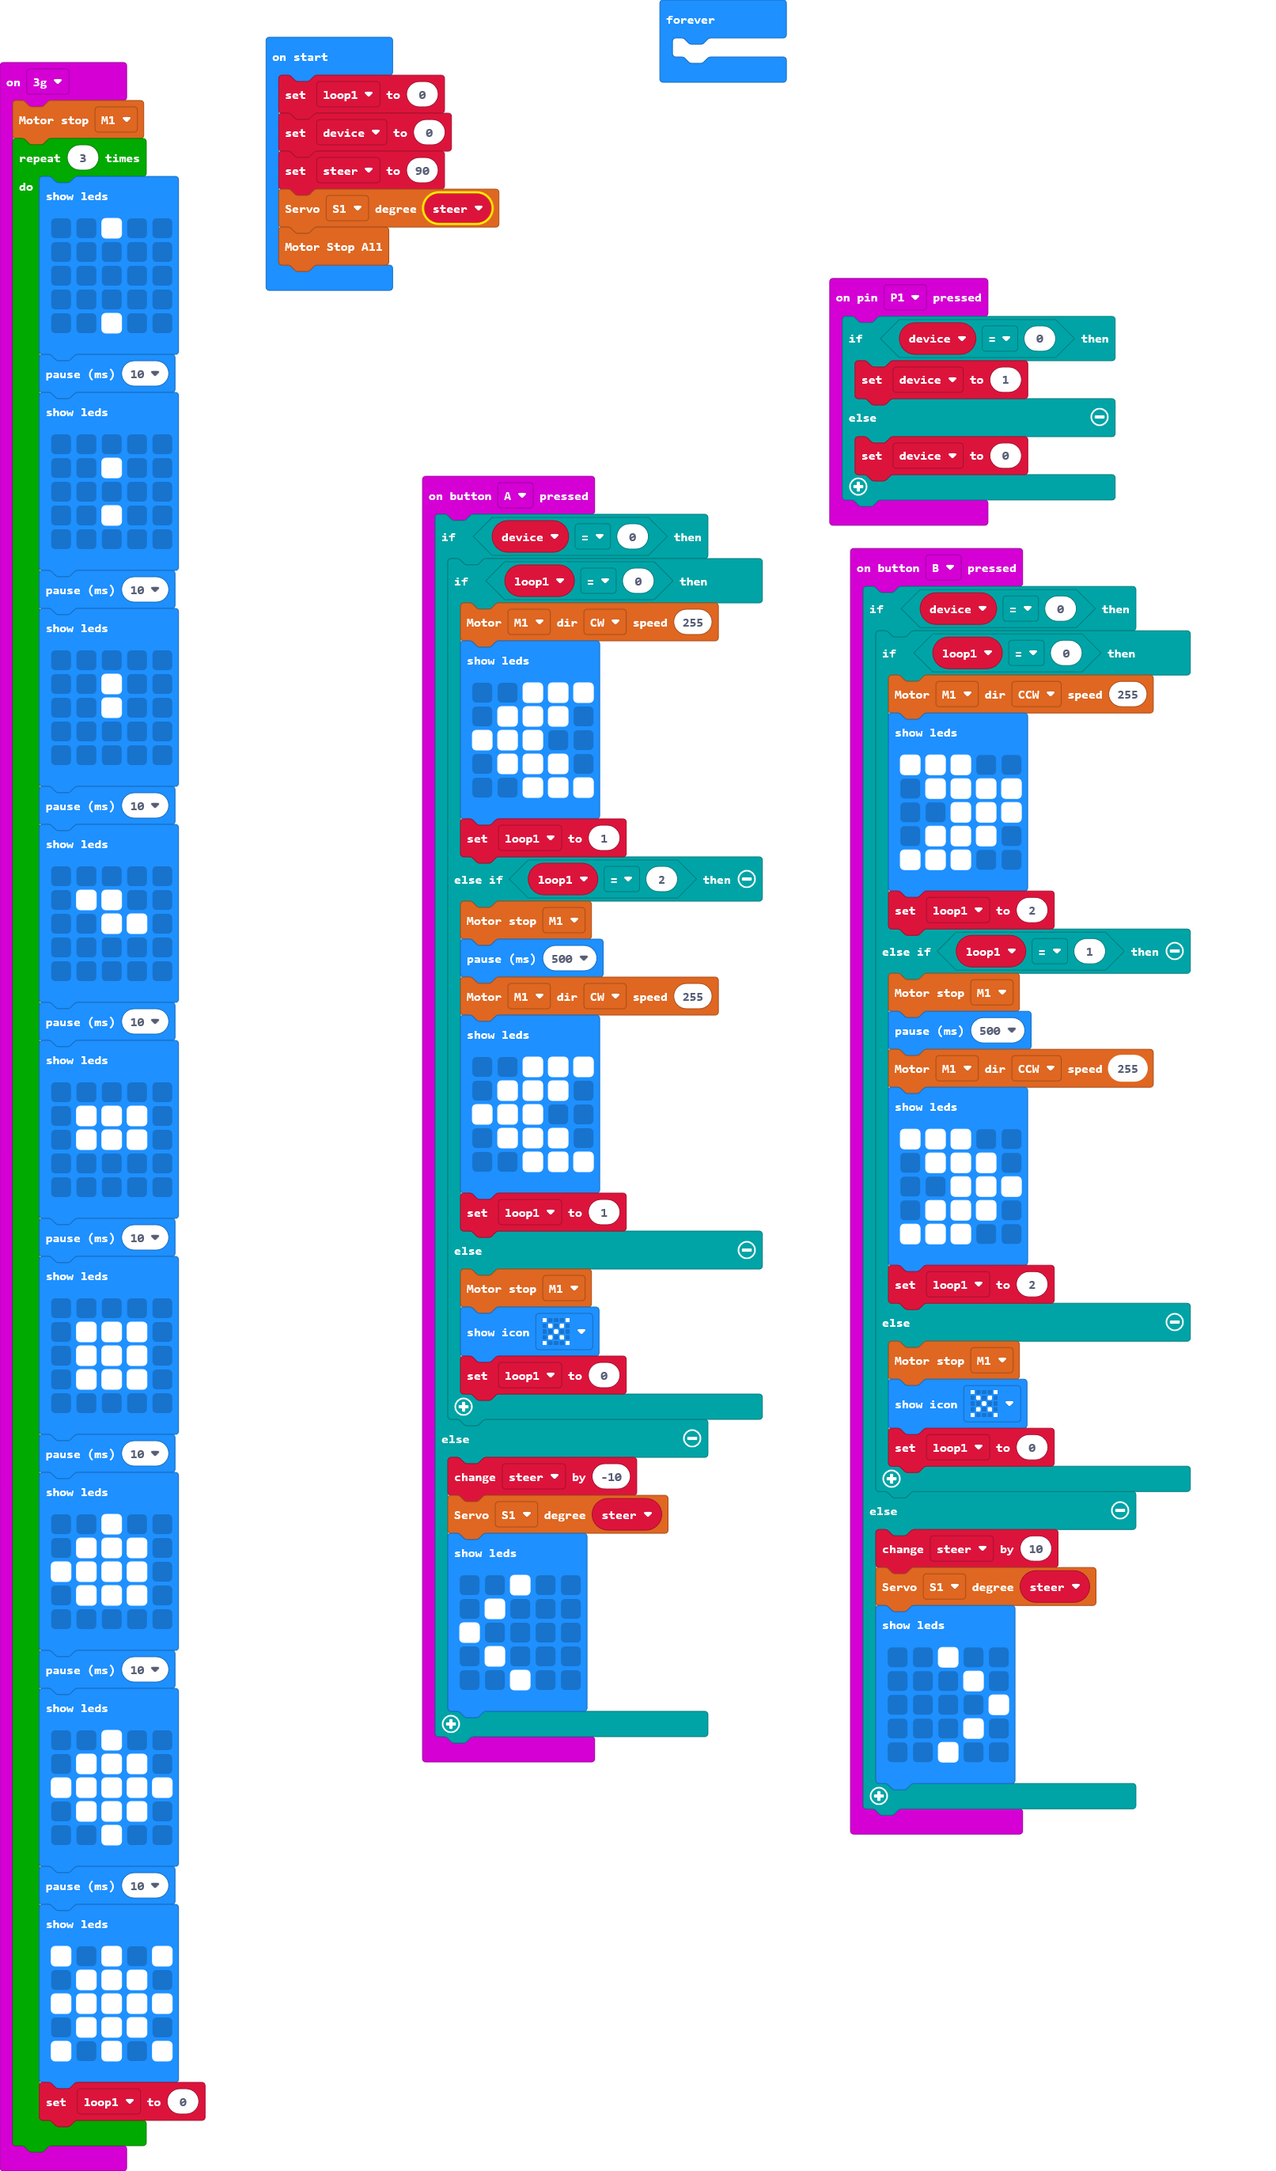
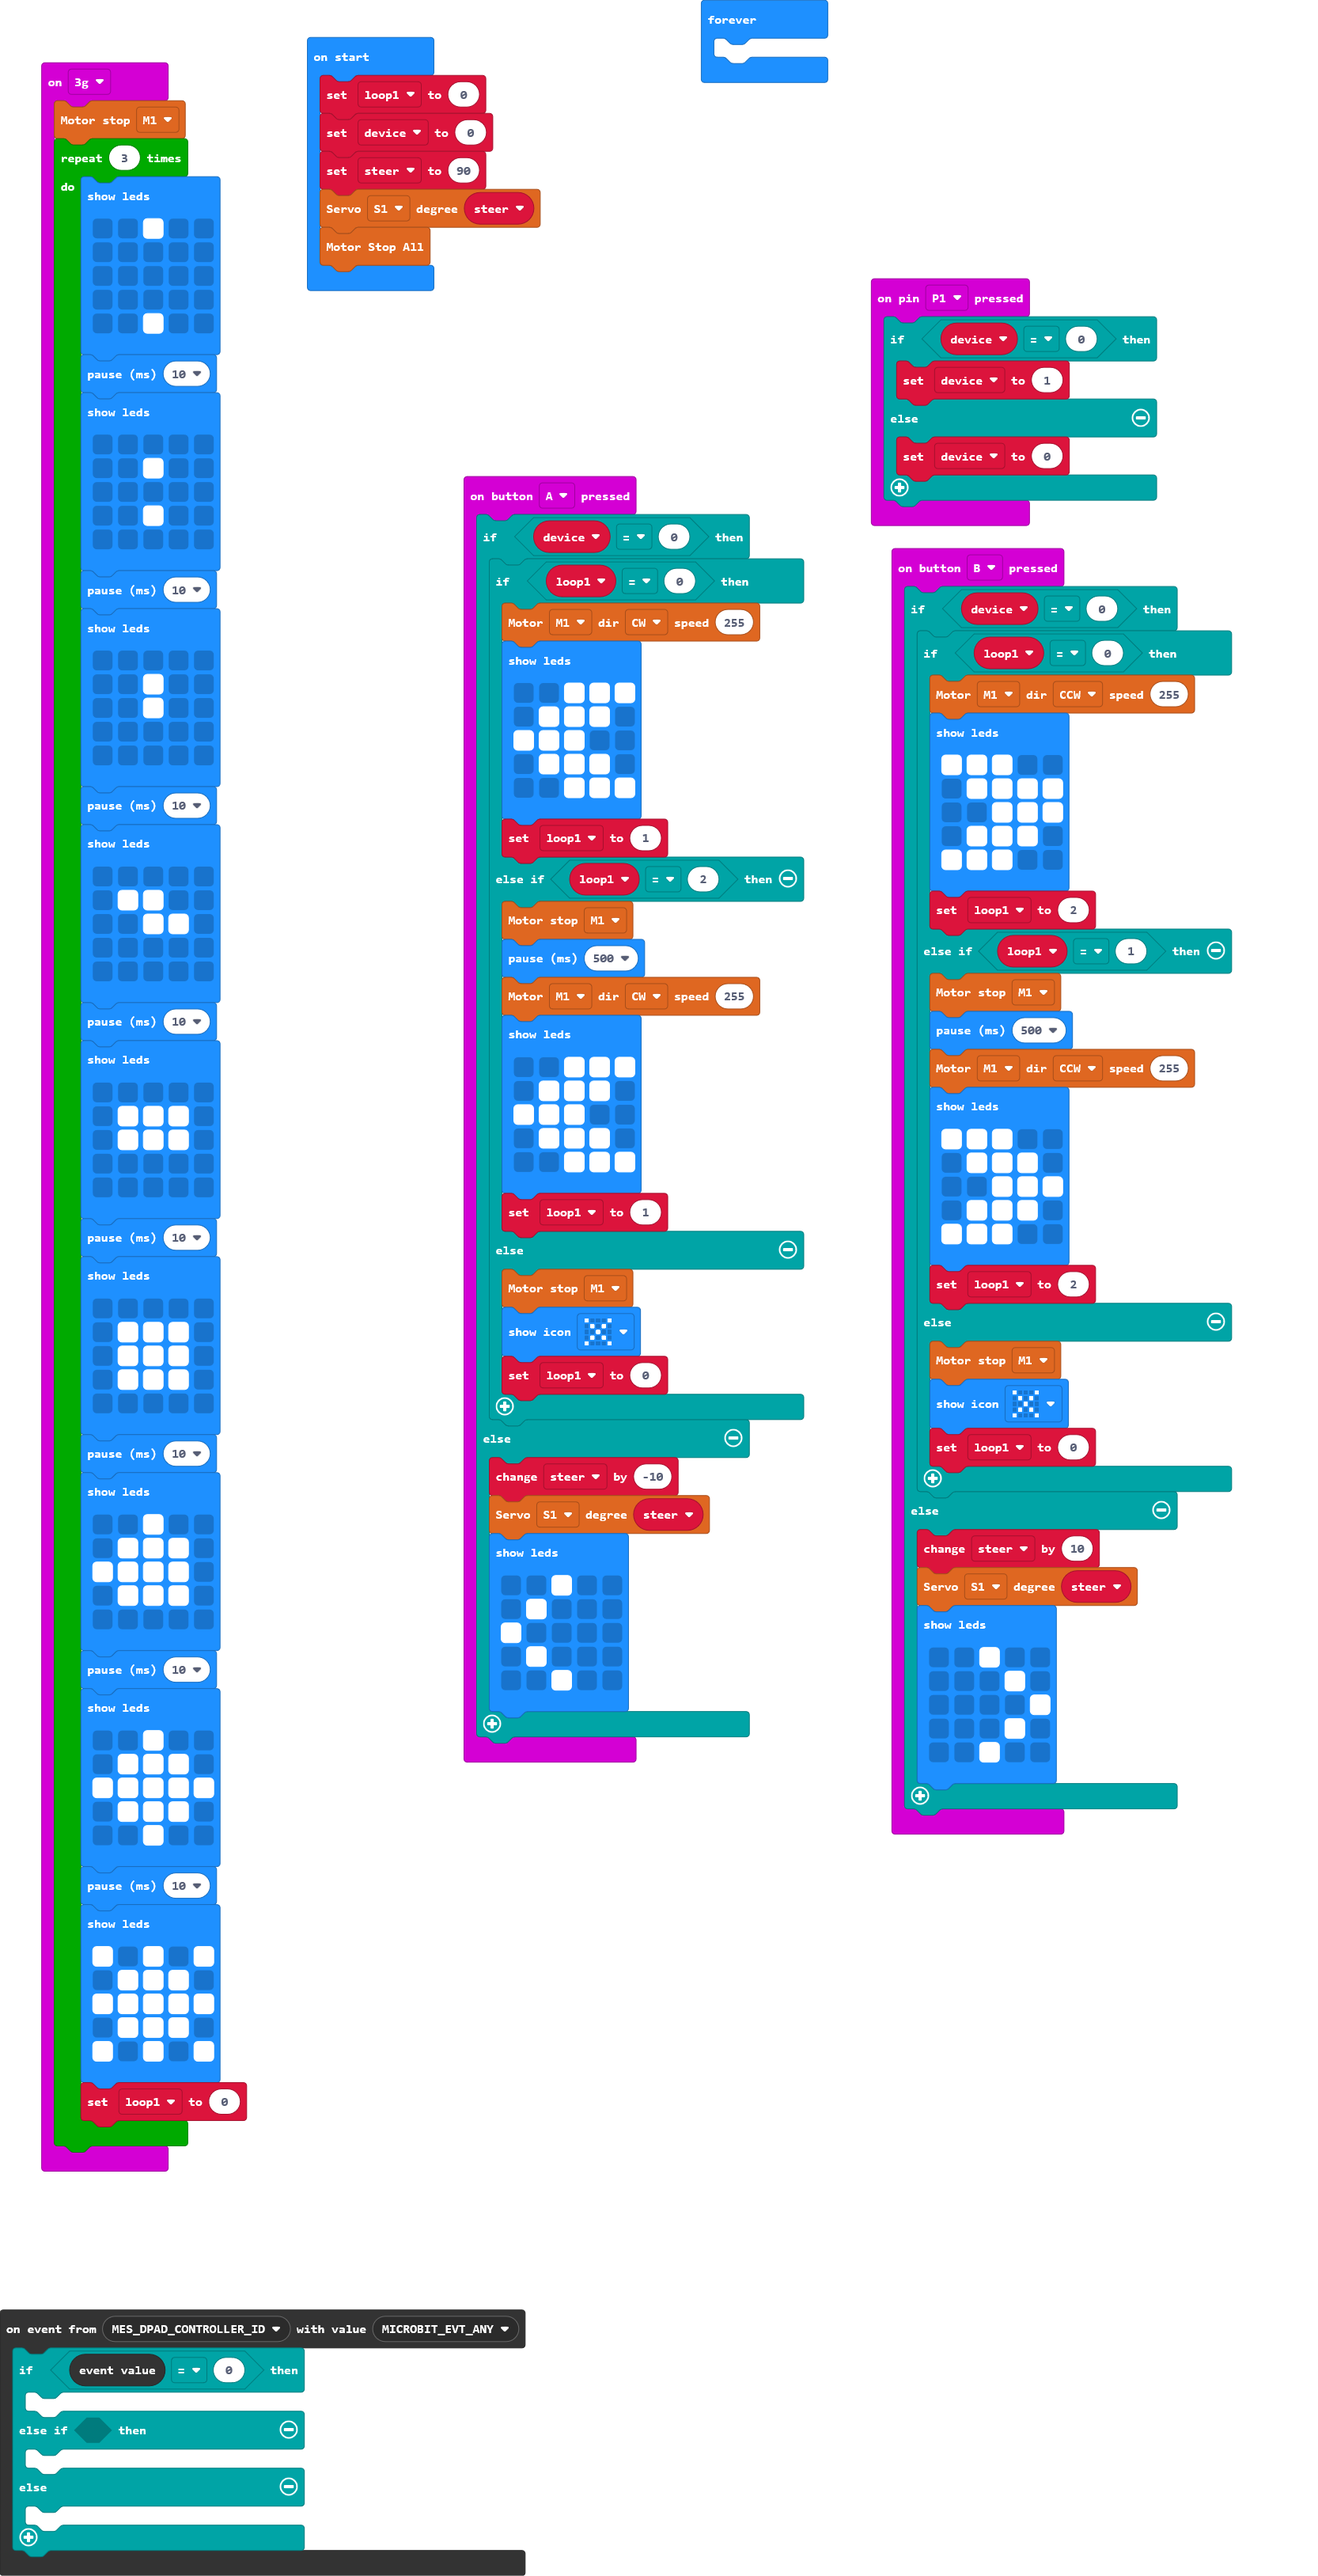
Update pxt.json, main.blocks, main.ts

diff --git a/main.ts b/main.ts
@@ -87,6 +87,15 @@ input.onPinPressed(TouchPin.P1, function () {
         device = 0
     }
 })
+control.onEvent(EventBusSource.MES_DPAD_CONTROLLER_ID, EventBusValue.MICROBIT_EVT_ANY, function () {
+    if (control.eventValue() == 0) {
+    	
+    } else if (false) {
+    	
+    } else {
+    	
+    }
+})
 input.onGesture(Gesture.ThreeG, function () {
     motor.motorStop(motor.Motors.M1)
     for (let index = 0; index < 3; index++) {
